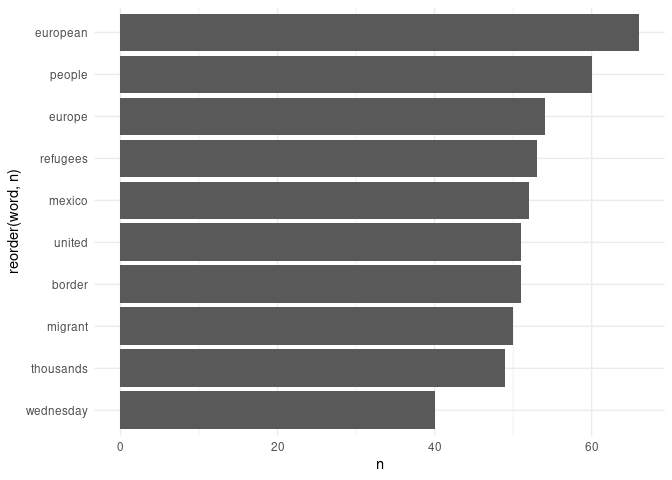
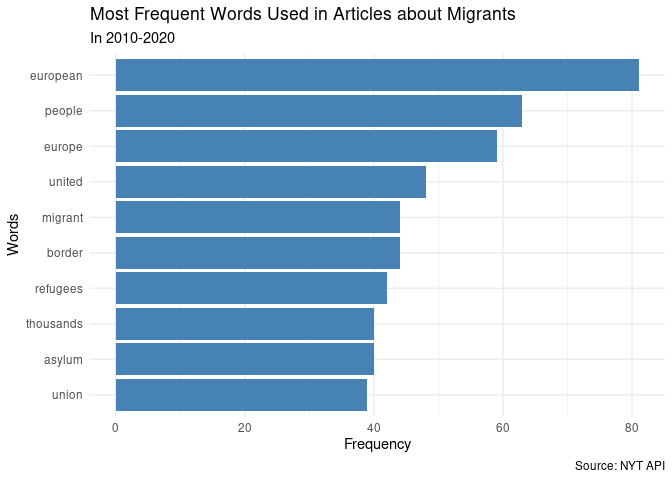
cleaned up graph outputs, added labels etc. working on final analysis piece (word cloud)

diff --git a/nyt_text_analysis.md b/nyt_text_analysis.md
@@ -1,4 +1,4 @@
-Analyzing Text from New York Times Article Abstracts
+Analyzing Text from New York Times Articles
 ================
 Clara Fong
 2021-03-13
@@ -72,7 +72,7 @@ story.
 
 ![](nyt_text_analysis_files/figure-gfm/common%20words%20viz-1.png)<!-- -->
 
-Unexpectedly, the most commonly used word is Europe/European, which is
+Expectedly, the most commonly used word is Europe/European, which is
 interesting considering the migrant European crisis didn’t happen until
 2015-2016. This suggests that there was really a spike in articles
 talking about migrants during this period, much more so than in the
@@ -100,9 +100,9 @@ After creating a `tf-idf` score, the plots identify word that are
 important to a text but not used *too* commonly. I have further gone in
 and grouped these by continents. As we can see, the “important words” by
 `tf-idf` are actually countries or regions within the continents. That
-being said, we still see some interesting phrases such as how the
-Americas includes “president”, “border”, “trump,” and Australia includes
-“gangs” and “detention”.
+being said, we still see some interesting phrases such as how the Middle
+East includes “coast” or “boat”, and Australia includes “contentious”
+and “detainees”.
 
 I suppose this analysis tells us more about *where* events relating to
 migration are happening most frequently than *what* is being discussed.
@@ -127,12 +127,14 @@ difference between the two. My initial guess would be that snippets
 would have more extreme language (more positive/ negative) because it is
 used to capture readers’ attention.
 
-    ## Joining, by = "word"
-    ## Joining, by = "word"
+<img src="nyt_text_analysis_files/figure-gfm/sentiment plots-1.png" width="50%" /><img src="nyt_text_analysis_files/figure-gfm/sentiment plots-2.png" width="50%" />
 
-<img src="nyt_text_analysis_files/figure-gfm/sentiment plots-1.png" style="display: block; margin: auto;" /><img src="nyt_text_analysis_files/figure-gfm/sentiment plots-2.png" style="display: block; margin: auto;" />
-
-As we initially predicted, there is more extreme variation in the
+Interestingly, there is more variation and extreme values (both positive
+and negative) in the lead paragraph’s sentiment than in the “snippet”
+introduction lines. We can also see that, on average, the words used to
+describe migrants in stories and/or their conditions are overwhelmingly
+negative. There are rarely any articles across all the key continents
+that score high on this positive sentiment dictionary.
 
 Furthermore, we can go ahead and look at the most commonly used negative
 and positive words in these articles.
@@ -158,120 +160,121 @@ devtools::session_info()
     ##  date     2021-03-13                          
     ## 
     ## ─ Packages ───────────────────────────────────────────────────────────────────
-    ##  package     * version    date       lib source        
-    ##  assertthat    0.2.1      2019-03-21 [2] CRAN (R 4.0.1)
-    ##  backports     1.2.1      2020-12-09 [2] CRAN (R 4.0.1)
-    ##  broom       * 0.7.3      2020-12-16 [2] CRAN (R 4.0.1)
-    ##  callr         3.5.1      2020-10-13 [2] CRAN (R 4.0.1)
-    ##  cellranger    1.1.0      2016-07-27 [2] CRAN (R 4.0.1)
-    ##  class         7.3-17     2020-04-26 [2] CRAN (R 4.0.1)
-    ##  cli           2.2.0      2020-11-20 [2] CRAN (R 4.0.1)
-    ##  codetools     0.2-16     2018-12-24 [2] CRAN (R 4.0.1)
-    ##  colorspace    2.0-0      2020-11-11 [2] CRAN (R 4.0.1)
-    ##  crayon        1.3.4      2017-09-16 [2] CRAN (R 4.0.1)
-    ##  curl          4.3        2019-12-02 [2] CRAN (R 4.0.1)
-    ##  DBI           1.1.0      2019-12-15 [2] CRAN (R 4.0.1)
-    ##  dbplyr        2.0.0      2020-11-03 [2] CRAN (R 4.0.1)
-    ##  desc          1.2.0      2018-05-01 [2] CRAN (R 4.0.1)
-    ##  devtools      2.3.2      2020-09-18 [2] CRAN (R 4.0.1)
-    ##  dials       * 0.0.9      2020-09-16 [2] CRAN (R 4.0.1)
-    ##  DiceDesign    1.8-1      2019-07-31 [2] CRAN (R 4.0.1)
-    ##  digest        0.6.27     2020-10-24 [2] CRAN (R 4.0.1)
-    ##  dplyr       * 1.0.2      2020-08-18 [2] CRAN (R 4.0.1)
-    ##  ellipsis      0.3.1      2020-05-15 [2] CRAN (R 4.0.1)
-    ##  evaluate      0.14       2019-05-28 [2] CRAN (R 4.0.1)
-    ##  fansi         0.4.1      2020-01-08 [2] CRAN (R 4.0.1)
-    ##  farver        2.0.3      2020-01-16 [2] CRAN (R 4.0.1)
-    ##  forcats     * 0.5.0      2020-03-01 [2] CRAN (R 4.0.1)
-    ##  foreach       1.5.1      2020-10-15 [2] CRAN (R 4.0.1)
-    ##  fs            1.5.0      2020-07-31 [2] CRAN (R 4.0.1)
-    ##  furrr         0.2.1      2020-10-21 [2] CRAN (R 4.0.1)
-    ##  future        1.21.0     2020-12-10 [2] CRAN (R 4.0.1)
-    ##  generics      0.1.0      2020-10-31 [2] CRAN (R 4.0.1)
-    ##  ggplot2     * 3.3.3      2020-12-30 [2] CRAN (R 4.0.1)
-    ##  globals       0.14.0     2020-11-22 [2] CRAN (R 4.0.1)
-    ##  glue          1.4.2      2020-08-27 [2] CRAN (R 4.0.1)
-    ##  gower         0.2.2      2020-06-23 [2] CRAN (R 4.0.1)
-    ##  GPfit         1.0-8      2019-02-08 [2] CRAN (R 4.0.1)
-    ##  gtable        0.3.0      2019-03-25 [2] CRAN (R 4.0.1)
-    ##  haven         2.3.1      2020-06-01 [2] CRAN (R 4.0.1)
-    ##  hms           0.5.3      2020-01-08 [2] CRAN (R 4.0.1)
-    ##  htmltools     0.4.0      2019-10-04 [2] CRAN (R 4.0.1)
-    ##  httr        * 1.4.2      2020-07-20 [2] CRAN (R 4.0.1)
-    ##  infer       * 0.5.3      2020-07-14 [2] CRAN (R 4.0.1)
-    ##  ipred         0.9-9      2019-04-28 [2] CRAN (R 4.0.1)
-    ##  iterators     1.0.13     2020-10-15 [2] CRAN (R 4.0.1)
-    ##  janeaustenr   0.1.5      2017-06-10 [2] CRAN (R 4.0.1)
-    ##  jsonlite    * 1.7.2      2020-12-09 [2] CRAN (R 4.0.1)
-    ##  knitr         1.30       2020-09-22 [2] CRAN (R 4.0.1)
-    ##  labeling      0.4.2      2020-10-20 [2] CRAN (R 4.0.1)
-    ##  lattice       0.20-41    2020-04-02 [2] CRAN (R 4.0.1)
-    ##  lava          1.6.8.1    2020-11-04 [2] CRAN (R 4.0.1)
-    ##  lhs           1.1.1      2020-10-05 [2] CRAN (R 4.0.1)
-    ##  lifecycle     0.2.0      2020-03-06 [2] CRAN (R 4.0.1)
-    ##  listenv       0.8.0      2019-12-05 [2] CRAN (R 4.0.1)
-    ##  lubridate   * 1.7.9.2    2020-11-13 [2] CRAN (R 4.0.1)
-    ##  magrittr      2.0.1      2020-11-17 [2] CRAN (R 4.0.1)
-    ##  MASS          7.3-51.6   2020-04-26 [2] CRAN (R 4.0.1)
-    ##  Matrix        1.2-18     2019-11-27 [2] CRAN (R 4.0.1)
-    ##  memoise       1.1.0      2017-04-21 [2] CRAN (R 4.0.1)
-    ##  modeldata   * 0.1.0      2020-10-22 [2] CRAN (R 4.0.1)
-    ##  modelr        0.1.8      2020-05-19 [2] CRAN (R 4.0.1)
-    ##  munsell       0.5.0      2018-06-12 [2] CRAN (R 4.0.1)
-    ##  nnet          7.3-14     2020-04-26 [2] CRAN (R 4.0.1)
-    ##  parallelly    1.22.0     2020-12-13 [2] CRAN (R 4.0.1)
-    ##  parsnip     * 0.1.4      2020-10-27 [2] CRAN (R 4.0.1)
-    ##  pillar        1.4.7      2020-11-20 [2] CRAN (R 4.0.1)
-    ##  pkgbuild      1.2.0      2020-12-15 [2] CRAN (R 4.0.1)
-    ##  pkgconfig     2.0.3      2019-09-22 [2] CRAN (R 4.0.1)
-    ##  pkgload       1.1.0      2020-05-29 [2] CRAN (R 4.0.1)
-    ##  plyr          1.8.6      2020-03-03 [2] CRAN (R 4.0.1)
-    ##  prettyunits   1.1.1      2020-01-24 [2] CRAN (R 4.0.1)
-    ##  pROC          1.16.2     2020-03-19 [2] CRAN (R 4.0.1)
-    ##  processx      3.4.5      2020-11-30 [2] CRAN (R 4.0.1)
-    ##  prodlim       2019.11.13 2019-11-17 [2] CRAN (R 4.0.1)
-    ##  ps            1.5.0      2020-12-05 [2] CRAN (R 4.0.1)
-    ##  purrr       * 0.3.4      2020-04-17 [2] CRAN (R 4.0.1)
-    ##  R6            2.5.0      2020-10-28 [2] CRAN (R 4.0.1)
-    ##  rappdirs      0.3.1      2016-03-28 [2] CRAN (R 4.0.1)
-    ##  Rcpp          1.0.5      2020-07-06 [2] CRAN (R 4.0.1)
-    ##  readr       * 1.4.0      2020-10-05 [2] CRAN (R 4.0.1)
-    ##  readxl        1.3.1      2019-03-13 [2] CRAN (R 4.0.1)
-    ##  recipes     * 0.1.15     2020-11-11 [2] CRAN (R 4.0.1)
-    ##  remotes       2.2.0      2020-07-21 [2] CRAN (R 4.0.1)
-    ##  reprex        0.3.0      2019-05-16 [2] CRAN (R 4.0.1)
-    ##  rlang         0.4.10     2020-12-30 [2] CRAN (R 4.0.1)
-    ##  rmarkdown     2.6        2020-12-14 [2] CRAN (R 4.0.1)
-    ##  rpart         4.1-15     2019-04-12 [2] CRAN (R 4.0.1)
-    ##  rprojroot     2.0.2      2020-11-15 [2] CRAN (R 4.0.1)
-    ##  rsample     * 0.0.8      2020-09-23 [2] CRAN (R 4.0.1)
-    ##  rstudioapi    0.13       2020-11-12 [2] CRAN (R 4.0.1)
-    ##  rvest         0.3.6      2020-07-25 [2] CRAN (R 4.0.1)
-    ##  scales      * 1.1.1      2020-05-11 [2] CRAN (R 4.0.1)
-    ##  sessioninfo   1.1.1      2018-11-05 [2] CRAN (R 4.0.1)
-    ##  SnowballC     0.7.0      2020-04-01 [2] CRAN (R 4.0.1)
-    ##  stringi       1.5.3      2020-09-09 [2] CRAN (R 4.0.1)
-    ##  stringr     * 1.4.0      2019-02-10 [2] CRAN (R 4.0.1)
-    ##  survival      3.1-12     2020-04-10 [2] CRAN (R 4.0.1)
-    ##  testthat      3.0.1      2020-12-17 [2] CRAN (R 4.0.1)
-    ##  textdata      0.4.1      2020-05-04 [2] CRAN (R 4.0.1)
-    ##  tibble      * 3.0.4      2020-10-12 [2] CRAN (R 4.0.1)
-    ##  tidymodels  * 0.1.2      2020-11-22 [2] CRAN (R 4.0.1)
-    ##  tidyr       * 1.1.2      2020-08-27 [2] CRAN (R 4.0.1)
-    ##  tidyselect    1.1.0      2020-05-11 [2] CRAN (R 4.0.1)
-    ##  tidytext    * 0.2.6      2020-09-20 [2] CRAN (R 4.0.1)
-    ##  tidyverse   * 1.3.0      2019-11-21 [2] CRAN (R 4.0.1)
-    ##  timeDate      3043.102   2018-02-21 [2] CRAN (R 4.0.1)
-    ##  tokenizers    0.2.1      2018-03-29 [2] CRAN (R 4.0.1)
-    ##  tune        * 0.1.2      2020-11-17 [2] CRAN (R 4.0.1)
-    ##  usethis       2.0.0      2020-12-10 [2] CRAN (R 4.0.1)
-    ##  vctrs         0.3.6      2020-12-17 [2] CRAN (R 4.0.1)
-    ##  withr         2.3.0      2020-09-22 [2] CRAN (R 4.0.1)
-    ##  workflows   * 0.2.1      2020-10-08 [2] CRAN (R 4.0.1)
-    ##  xfun          0.19       2020-10-30 [2] CRAN (R 4.0.1)
-    ##  xml2          1.3.2      2020-04-23 [2] CRAN (R 4.0.1)
-    ##  yaml          2.2.1      2020-02-01 [2] CRAN (R 4.0.1)
-    ##  yardstick   * 0.0.7      2020-07-13 [2] CRAN (R 4.0.1)
+    ##  package      * version    date       lib source        
+    ##  assertthat     0.2.1      2019-03-21 [2] CRAN (R 4.0.1)
+    ##  backports      1.2.1      2020-12-09 [2] CRAN (R 4.0.1)
+    ##  broom        * 0.7.3      2020-12-16 [2] CRAN (R 4.0.1)
+    ##  callr          3.5.1      2020-10-13 [2] CRAN (R 4.0.1)
+    ##  cellranger     1.1.0      2016-07-27 [2] CRAN (R 4.0.1)
+    ##  class          7.3-17     2020-04-26 [2] CRAN (R 4.0.1)
+    ##  cli            2.2.0      2020-11-20 [2] CRAN (R 4.0.1)
+    ##  codetools      0.2-16     2018-12-24 [2] CRAN (R 4.0.1)
+    ##  colorspace     2.0-0      2020-11-11 [2] CRAN (R 4.0.1)
+    ##  crayon         1.3.4      2017-09-16 [2] CRAN (R 4.0.1)
+    ##  curl           4.3        2019-12-02 [2] CRAN (R 4.0.1)
+    ##  DBI            1.1.0      2019-12-15 [2] CRAN (R 4.0.1)
+    ##  dbplyr         2.0.0      2020-11-03 [2] CRAN (R 4.0.1)
+    ##  desc           1.2.0      2018-05-01 [2] CRAN (R 4.0.1)
+    ##  devtools       2.3.2      2020-09-18 [2] CRAN (R 4.0.1)
+    ##  dials        * 0.0.9      2020-09-16 [2] CRAN (R 4.0.1)
+    ##  DiceDesign     1.8-1      2019-07-31 [2] CRAN (R 4.0.1)
+    ##  digest         0.6.27     2020-10-24 [2] CRAN (R 4.0.1)
+    ##  dplyr        * 1.0.2      2020-08-18 [2] CRAN (R 4.0.1)
+    ##  ellipsis       0.3.1      2020-05-15 [2] CRAN (R 4.0.1)
+    ##  evaluate       0.14       2019-05-28 [2] CRAN (R 4.0.1)
+    ##  fansi          0.4.1      2020-01-08 [2] CRAN (R 4.0.1)
+    ##  farver         2.0.3      2020-01-16 [2] CRAN (R 4.0.1)
+    ##  forcats      * 0.5.0      2020-03-01 [2] CRAN (R 4.0.1)
+    ##  foreach        1.5.1      2020-10-15 [2] CRAN (R 4.0.1)
+    ##  fs             1.5.0      2020-07-31 [2] CRAN (R 4.0.1)
+    ##  furrr          0.2.1      2020-10-21 [2] CRAN (R 4.0.1)
+    ##  future         1.21.0     2020-12-10 [2] CRAN (R 4.0.1)
+    ##  generics       0.1.0      2020-10-31 [2] CRAN (R 4.0.1)
+    ##  ggplot2      * 3.3.3      2020-12-30 [2] CRAN (R 4.0.1)
+    ##  globals        0.14.0     2020-11-22 [2] CRAN (R 4.0.1)
+    ##  glue           1.4.2      2020-08-27 [2] CRAN (R 4.0.1)
+    ##  gower          0.2.2      2020-06-23 [2] CRAN (R 4.0.1)
+    ##  GPfit          1.0-8      2019-02-08 [2] CRAN (R 4.0.1)
+    ##  gtable         0.3.0      2019-03-25 [2] CRAN (R 4.0.1)
+    ##  haven          2.3.1      2020-06-01 [2] CRAN (R 4.0.1)
+    ##  hms            0.5.3      2020-01-08 [2] CRAN (R 4.0.1)
+    ##  htmltools      0.4.0      2019-10-04 [2] CRAN (R 4.0.1)
+    ##  httr         * 1.4.2      2020-07-20 [2] CRAN (R 4.0.1)
+    ##  infer        * 0.5.3      2020-07-14 [2] CRAN (R 4.0.1)
+    ##  ipred          0.9-9      2019-04-28 [2] CRAN (R 4.0.1)
+    ##  iterators      1.0.13     2020-10-15 [2] CRAN (R 4.0.1)
+    ##  janeaustenr    0.1.5      2017-06-10 [2] CRAN (R 4.0.1)
+    ##  jsonlite     * 1.7.2      2020-12-09 [2] CRAN (R 4.0.1)
+    ##  knitr          1.30       2020-09-22 [2] CRAN (R 4.0.1)
+    ##  labeling       0.4.2      2020-10-20 [2] CRAN (R 4.0.1)
+    ##  lattice        0.20-41    2020-04-02 [2] CRAN (R 4.0.1)
+    ##  lava           1.6.8.1    2020-11-04 [2] CRAN (R 4.0.1)
+    ##  lhs            1.1.1      2020-10-05 [2] CRAN (R 4.0.1)
+    ##  lifecycle      0.2.0      2020-03-06 [2] CRAN (R 4.0.1)
+    ##  listenv        0.8.0      2019-12-05 [2] CRAN (R 4.0.1)
+    ##  lubridate    * 1.7.9.2    2020-11-13 [2] CRAN (R 4.0.1)
+    ##  magrittr       2.0.1      2020-11-17 [2] CRAN (R 4.0.1)
+    ##  MASS           7.3-51.6   2020-04-26 [2] CRAN (R 4.0.1)
+    ##  Matrix         1.2-18     2019-11-27 [2] CRAN (R 4.0.1)
+    ##  memoise        1.1.0      2017-04-21 [2] CRAN (R 4.0.1)
+    ##  modeldata    * 0.1.0      2020-10-22 [2] CRAN (R 4.0.1)
+    ##  modelr         0.1.8      2020-05-19 [2] CRAN (R 4.0.1)
+    ##  munsell        0.5.0      2018-06-12 [2] CRAN (R 4.0.1)
+    ##  nnet           7.3-14     2020-04-26 [2] CRAN (R 4.0.1)
+    ##  parallelly     1.22.0     2020-12-13 [2] CRAN (R 4.0.1)
+    ##  parsnip      * 0.1.4      2020-10-27 [2] CRAN (R 4.0.1)
+    ##  pillar         1.4.7      2020-11-20 [2] CRAN (R 4.0.1)
+    ##  pkgbuild       1.2.0      2020-12-15 [2] CRAN (R 4.0.1)
+    ##  pkgconfig      2.0.3      2019-09-22 [2] CRAN (R 4.0.1)
+    ##  pkgload        1.1.0      2020-05-29 [2] CRAN (R 4.0.1)
+    ##  plyr           1.8.6      2020-03-03 [2] CRAN (R 4.0.1)
+    ##  prettyunits    1.1.1      2020-01-24 [2] CRAN (R 4.0.1)
+    ##  pROC           1.16.2     2020-03-19 [2] CRAN (R 4.0.1)
+    ##  processx       3.4.5      2020-11-30 [2] CRAN (R 4.0.1)
+    ##  prodlim        2019.11.13 2019-11-17 [2] CRAN (R 4.0.1)
+    ##  ps             1.5.0      2020-12-05 [2] CRAN (R 4.0.1)
+    ##  purrr        * 0.3.4      2020-04-17 [2] CRAN (R 4.0.1)
+    ##  R6             2.5.0      2020-10-28 [2] CRAN (R 4.0.1)
+    ##  rappdirs       0.3.1      2016-03-28 [2] CRAN (R 4.0.1)
+    ##  RColorBrewer   1.1-2      2014-12-07 [2] CRAN (R 4.0.1)
+    ##  Rcpp           1.0.5      2020-07-06 [2] CRAN (R 4.0.1)
+    ##  readr        * 1.4.0      2020-10-05 [2] CRAN (R 4.0.1)
+    ##  readxl         1.3.1      2019-03-13 [2] CRAN (R 4.0.1)
+    ##  recipes      * 0.1.15     2020-11-11 [2] CRAN (R 4.0.1)
+    ##  remotes        2.2.0      2020-07-21 [2] CRAN (R 4.0.1)
+    ##  reprex         0.3.0      2019-05-16 [2] CRAN (R 4.0.1)
+    ##  rlang          0.4.10     2020-12-30 [2] CRAN (R 4.0.1)
+    ##  rmarkdown      2.6        2020-12-14 [2] CRAN (R 4.0.1)
+    ##  rpart          4.1-15     2019-04-12 [2] CRAN (R 4.0.1)
+    ##  rprojroot      2.0.2      2020-11-15 [2] CRAN (R 4.0.1)
+    ##  rsample      * 0.0.8      2020-09-23 [2] CRAN (R 4.0.1)
+    ##  rstudioapi     0.13       2020-11-12 [2] CRAN (R 4.0.1)
+    ##  rvest          0.3.6      2020-07-25 [2] CRAN (R 4.0.1)
+    ##  scales       * 1.1.1      2020-05-11 [2] CRAN (R 4.0.1)
+    ##  sessioninfo    1.1.1      2018-11-05 [2] CRAN (R 4.0.1)
+    ##  SnowballC      0.7.0      2020-04-01 [2] CRAN (R 4.0.1)
+    ##  stringi        1.5.3      2020-09-09 [2] CRAN (R 4.0.1)
+    ##  stringr      * 1.4.0      2019-02-10 [2] CRAN (R 4.0.1)
+    ##  survival       3.1-12     2020-04-10 [2] CRAN (R 4.0.1)
+    ##  testthat       3.0.1      2020-12-17 [2] CRAN (R 4.0.1)
+    ##  textdata       0.4.1      2020-05-04 [2] CRAN (R 4.0.1)
+    ##  tibble       * 3.0.4      2020-10-12 [2] CRAN (R 4.0.1)
+    ##  tidymodels   * 0.1.2      2020-11-22 [2] CRAN (R 4.0.1)
+    ##  tidyr        * 1.1.2      2020-08-27 [2] CRAN (R 4.0.1)
+    ##  tidyselect     1.1.0      2020-05-11 [2] CRAN (R 4.0.1)
+    ##  tidytext     * 0.2.6      2020-09-20 [2] CRAN (R 4.0.1)
+    ##  tidyverse    * 1.3.0      2019-11-21 [2] CRAN (R 4.0.1)
+    ##  timeDate       3043.102   2018-02-21 [2] CRAN (R 4.0.1)
+    ##  tokenizers     0.2.1      2018-03-29 [2] CRAN (R 4.0.1)
+    ##  tune         * 0.1.2      2020-11-17 [2] CRAN (R 4.0.1)
+    ##  usethis        2.0.0      2020-12-10 [2] CRAN (R 4.0.1)
+    ##  vctrs          0.3.6      2020-12-17 [2] CRAN (R 4.0.1)
+    ##  withr          2.3.0      2020-09-22 [2] CRAN (R 4.0.1)
+    ##  workflows    * 0.2.1      2020-10-08 [2] CRAN (R 4.0.1)
+    ##  xfun           0.19       2020-10-30 [2] CRAN (R 4.0.1)
+    ##  xml2           1.3.2      2020-04-23 [2] CRAN (R 4.0.1)
+    ##  yaml           2.2.1      2020-02-01 [2] CRAN (R 4.0.1)
+    ##  yardstick    * 0.0.7      2020-07-13 [2] CRAN (R 4.0.1)
     ## 
     ## [1] /home/cmfong/R/x86_64-pc-linux-gnu-library/4.0
     ## [2] /opt/R/4.0.1/lib/R/library
